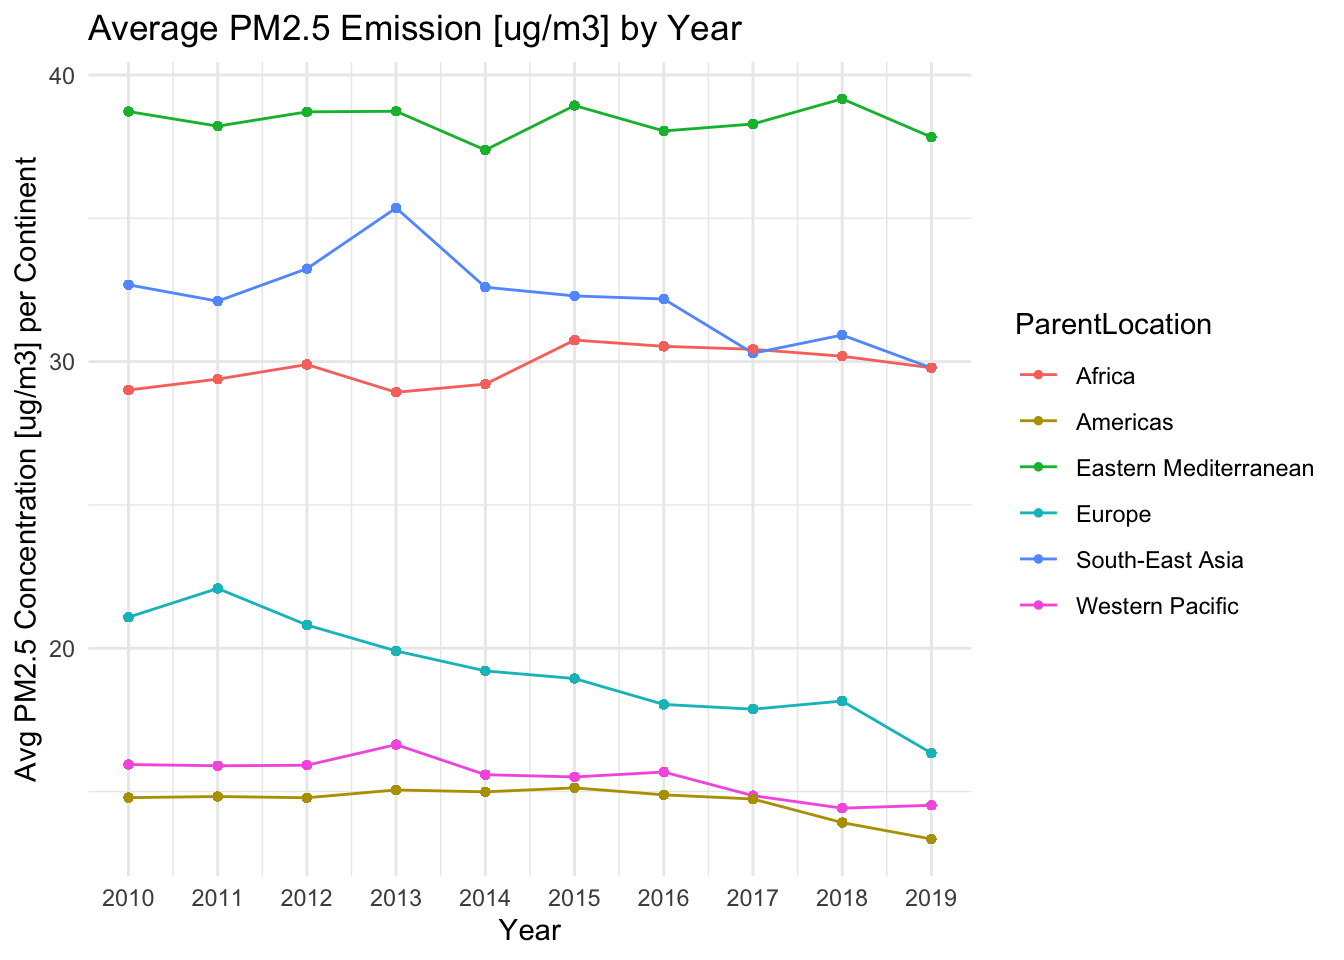
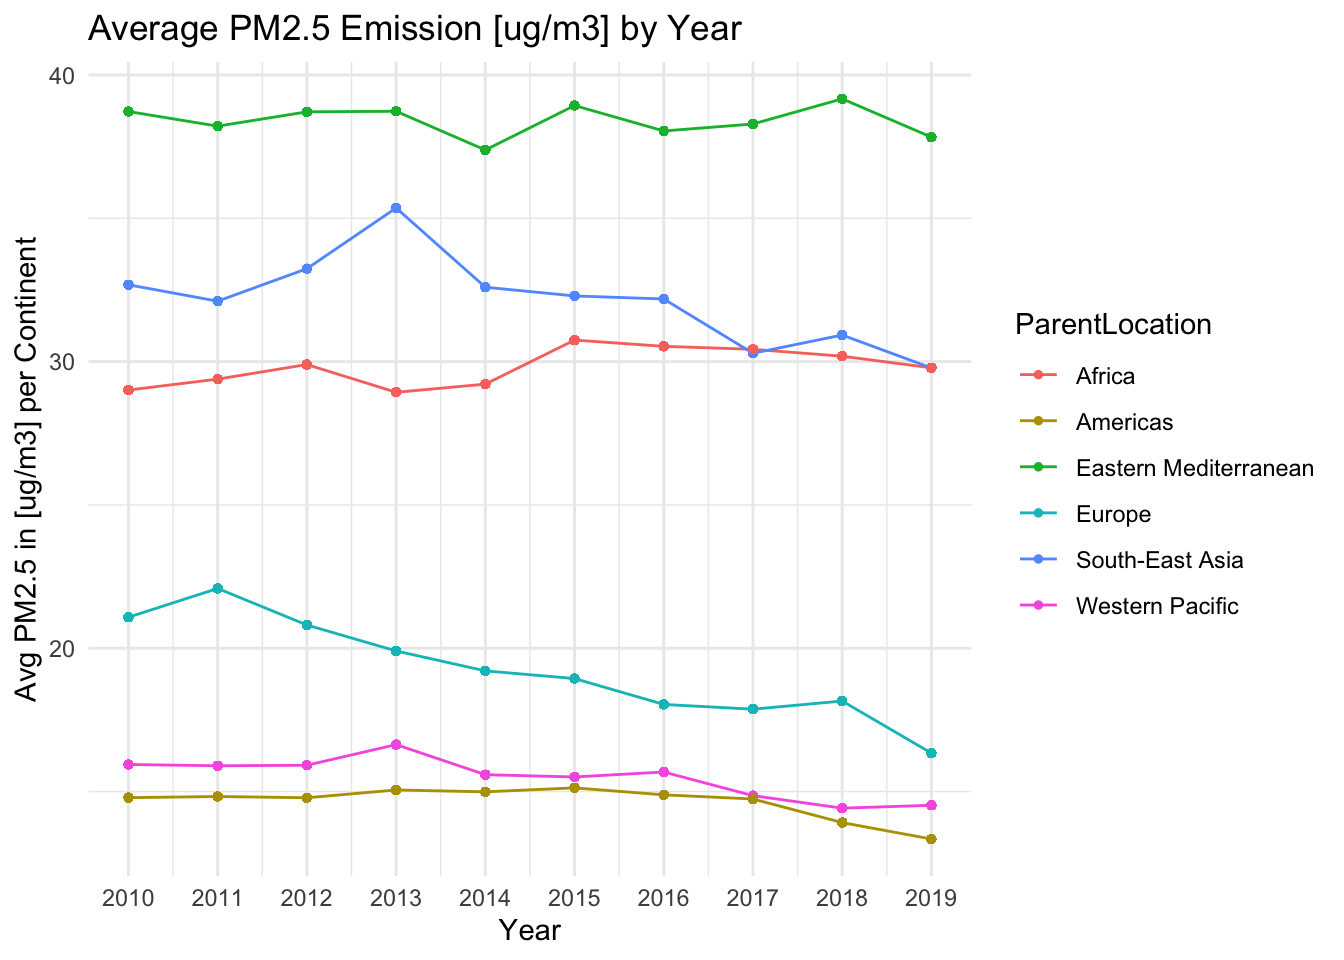
。

Changed region(s): [[0.0, 0.1562, 0.0312, 0.8125]]

diff --git a/docs/results.html b/docs/results.html
@@ -237,7 +237,7 @@ Attaching package: 'dplyr'</code></pre>
 <span id="cb6-8"><a href="#cb6-8" aria-hidden="true" tabindex="-1"></a>  <span class="fu">theme_minimal</span>() <span class="sc">+</span></span>
 <span id="cb6-9"><a href="#cb6-9" aria-hidden="true" tabindex="-1"></a>  <span class="fu">labs</span>(<span class="at">title =</span> <span class="st">"Average PM2.5 Emission [ug/m3] by Year"</span>,</span>
 <span id="cb6-10"><a href="#cb6-10" aria-hidden="true" tabindex="-1"></a>       <span class="at">x =</span> <span class="st">"Year"</span>,</span>
-<span id="cb6-11"><a href="#cb6-11" aria-hidden="true" tabindex="-1"></a>       <span class="at">y =</span> <span class="st">"Avg PM2.5 Worldwide [ug/m3]"</span>) <span class="sc">+</span></span>
+<span id="cb6-11"><a href="#cb6-11" aria-hidden="true" tabindex="-1"></a>       <span class="at">y =</span> <span class="st">"Avg PM2.5 [ug/m3] Worldwide"</span>) <span class="sc">+</span></span>
 <span id="cb6-12"><a href="#cb6-12" aria-hidden="true" tabindex="-1"></a>   <span class="fu">scale_x_continuous</span>(<span class="at">breaks =</span> <span class="fu">seq</span>(<span class="fu">min</span>(data<span class="sc">$</span>Period), <span class="fu">max</span>(data<span class="sc">$</span>Period), <span class="at">by =</span> <span class="dv">1</span>))</span></code><button title="Copy to Clipboard" class="code-copy-button"><i class="bi"></i></button></pre></div>
 </details>
 <div class="cell-output-display">
@@ -262,7 +262,7 @@ Attaching package: 'dplyr'</code></pre>
 <span id="cb7-9"><a href="#cb7-9" aria-hidden="true" tabindex="-1"></a>  <span class="fu">theme_minimal</span>() <span class="sc">+</span></span>
 <span id="cb7-10"><a href="#cb7-10" aria-hidden="true" tabindex="-1"></a>  <span class="fu">labs</span>(<span class="at">title =</span> <span class="st">"Average PM2.5 Emission [ug/m3] by Year"</span>,</span>
 <span id="cb7-11"><a href="#cb7-11" aria-hidden="true" tabindex="-1"></a>       <span class="at">x =</span> <span class="st">"Year"</span>,</span>
-<span id="cb7-12"><a href="#cb7-12" aria-hidden="true" tabindex="-1"></a>       <span class="at">y =</span> <span class="st">"Avg PM2.5 Concentration [ug/m3] per Continent"</span>) <span class="sc">+</span></span>
+<span id="cb7-12"><a href="#cb7-12" aria-hidden="true" tabindex="-1"></a>       <span class="at">y =</span> <span class="st">"Avg PM2.5 in [ug/m3] per Continent"</span>) <span class="sc">+</span></span>
 <span id="cb7-13"><a href="#cb7-13" aria-hidden="true" tabindex="-1"></a>   <span class="fu">scale_x_continuous</span>(<span class="at">breaks =</span> <span class="fu">seq</span>(<span class="fu">min</span>(data<span class="sc">$</span>Period), <span class="fu">max</span>(data<span class="sc">$</span>Period), <span class="at">by =</span> <span class="dv">1</span>))</span></code><button title="Copy to Clipboard" class="code-copy-button"><i class="bi"></i></button></pre></div>
 </details>
 <div class="cell-output-display">
@@ -292,9 +292,9 @@ Attaching package: 'dplyr'</code></pre>
 </div>
 <p>The boxplots further shows that Europe has the largest variation across years, which corresponds to our observation for previous plot, while Africa and Eastern Mediterranean has a stable PM2.5 since the length of boxplot is small.</p>
 <ol start="3" type="1">
-<li><p>Continent Correlation</p>
-<p>This explores the relationship between country and PM2.5 level.</p></li>
+<li>Continent Correlation</li>
 </ol>
+<p>This explores the relationship between country and PM2.5 level.</p>
 <div class="cell">
 <details>
 <summary>Code</summary>
@@ -314,7 +314,7 @@ Attaching package: 'dplyr'</code></pre>
 <span id="cb10-14"><a href="#cb10-14" aria-hidden="true" tabindex="-1"></a><span class="fu">ggplot</span>(top_countries, <span class="fu">aes</span>(<span class="at">x =</span> <span class="fu">reorder</span>(Location, LocE), <span class="at">y =</span> LocE)) <span class="sc">+</span></span>
 <span id="cb10-15"><a href="#cb10-15" aria-hidden="true" tabindex="-1"></a>  <span class="fu">geom_bar</span>(<span class="at">stat =</span> <span class="st">"identity"</span>, <span class="at">fill =</span> <span class="st">"#FFCCCC"</span>) <span class="sc">+</span></span>
 <span id="cb10-16"><a href="#cb10-16" aria-hidden="true" tabindex="-1"></a>  <span class="fu">coord_flip</span>() <span class="sc">+</span></span>
-<span id="cb10-17"><a href="#cb10-17" aria-hidden="true" tabindex="-1"></a>  <span class="fu">labs</span>(<span class="at">title =</span> <span class="st">"Countries with the Top 10 Highest Avg PM2.5"</span>,</span>
+<span id="cb10-17"><a href="#cb10-17" aria-hidden="true" tabindex="-1"></a>  <span class="fu">labs</span>(<span class="at">title =</span> <span class="st">"Countries with the Top 10 Highest Avg PM2.5 [ug/m3]"</span>,</span>
 <span id="cb10-18"><a href="#cb10-18" aria-hidden="true" tabindex="-1"></a>       <span class="at">x =</span> <span class="st">"Country"</span>,</span>
 <span id="cb10-19"><a href="#cb10-19" aria-hidden="true" tabindex="-1"></a>       <span class="at">y =</span> <span class="st">"Average PM2.5 [ug/m3]"</span>) <span class="sc">+</span></span>
 <span id="cb10-20"><a href="#cb10-20" aria-hidden="true" tabindex="-1"></a>  <span class="fu">theme_minimal</span>()</span></code><button title="Copy to Clipboard" class="code-copy-button"><i class="bi"></i></button></pre></div>
@@ -329,7 +329,7 @@ Attaching package: 'dplyr'</code></pre>
 <div class="sourceCode cell-code" id="cb11"><pre class="sourceCode r code-with-copy"><code class="sourceCode r"><span id="cb11-1"><a href="#cb11-1" aria-hidden="true" tabindex="-1"></a><span class="fu">ggplot</span>(bot_countries, <span class="fu">aes</span>(<span class="at">x =</span> <span class="fu">reorder</span>(Location, <span class="sc">-</span>LocE), <span class="at">y =</span> LocE)) <span class="sc">+</span></span>
 <span id="cb11-2"><a href="#cb11-2" aria-hidden="true" tabindex="-1"></a>  <span class="fu">geom_bar</span>(<span class="at">stat =</span> <span class="st">"identity"</span>, <span class="at">fill=</span><span class="st">'lightgreen'</span>) <span class="sc">+</span></span>
 <span id="cb11-3"><a href="#cb11-3" aria-hidden="true" tabindex="-1"></a>  <span class="fu">coord_flip</span>() <span class="sc">+</span></span>
-<span id="cb11-4"><a href="#cb11-4" aria-hidden="true" tabindex="-1"></a>  <span class="fu">labs</span>(<span class="at">title =</span> <span class="st">"Countries with the Top 10 Highest Avg PM2.5"</span>,</span>
+<span id="cb11-4"><a href="#cb11-4" aria-hidden="true" tabindex="-1"></a>  <span class="fu">labs</span>(<span class="at">title =</span> <span class="st">"Countries with the Top 10 Highest Avg PM2.5 [ug/m3]"</span>,</span>
 <span id="cb11-5"><a href="#cb11-5" aria-hidden="true" tabindex="-1"></a>       <span class="at">x =</span> <span class="st">"Country"</span>,</span>
 <span id="cb11-6"><a href="#cb11-6" aria-hidden="true" tabindex="-1"></a>       <span class="at">y =</span> <span class="st">"Average PM2.5 [ug/m3]"</span>) <span class="sc">+</span></span>
 <span id="cb11-7"><a href="#cb11-7" aria-hidden="true" tabindex="-1"></a>  <span class="fu">theme_minimal</span>()</span></code><button title="Copy to Clipboard" class="code-copy-button"><i class="bi"></i></button></pre></div>
@@ -338,6 +338,35 @@ Attaching package: 'dplyr'</code></pre>
 <p><img src="results_files/figure-html/unnamed-chunk-6-1.png" class="img-fluid" width="672"></p>
 </div>
 </div>
+<p>These plots shows that the our continent analysis makes sense since countries with the best and worst air quality corresponds with the continent distribution.</p>
+<p>Let’s further define a ‘Polluted Percentage’, which is the percentage of countries that have an average PM 2.5 over 2010 to 2019 in each continent. Let’s test whether the continent average PM 2.5 is biased by the number of countries.</p>
+<div class="cell">
+<details>
+<summary>Code</summary>
+<div class="sourceCode cell-code" id="cb12"><pre class="sourceCode r code-with-copy"><code class="sourceCode r"><span id="cb12-1"><a href="#cb12-1" aria-hidden="true" tabindex="-1"></a>c_data <span class="ot">&lt;-</span> data <span class="sc">%&gt;%</span></span>
+<span id="cb12-2"><a href="#cb12-2" aria-hidden="true" tabindex="-1"></a>  <span class="fu">group_by</span>(ParentLocation) <span class="sc">%&gt;%</span></span>
+<span id="cb12-3"><a href="#cb12-3" aria-hidden="true" tabindex="-1"></a>  <span class="fu">summarize</span>(</span>
+<span id="cb12-4"><a href="#cb12-4" aria-hidden="true" tabindex="-1"></a>    <span class="at">tc =</span> <span class="fu">n</span>(),</span>
+<span id="cb12-5"><a href="#cb12-5" aria-hidden="true" tabindex="-1"></a>    <span class="at">polluted =</span> <span class="fu">sum</span>(FactValueNumeric <span class="sc">&gt;</span> <span class="fl">50.0</span>),</span>
+<span id="cb12-6"><a href="#cb12-6" aria-hidden="true" tabindex="-1"></a>    <span class="at">pec =</span> (polluted <span class="sc">/</span> tc) <span class="sc">*</span> <span class="fl">100.0</span></span>
+<span id="cb12-7"><a href="#cb12-7" aria-hidden="true" tabindex="-1"></a>  )</span>
+<span id="cb12-8"><a href="#cb12-8" aria-hidden="true" tabindex="-1"></a></span>
+<span id="cb12-9"><a href="#cb12-9" aria-hidden="true" tabindex="-1"></a><span class="co"># Plotting</span></span>
+<span id="cb12-10"><a href="#cb12-10" aria-hidden="true" tabindex="-1"></a><span class="fu">ggplot</span>(c_data, <span class="fu">aes</span>(<span class="at">x =</span> ParentLocation, <span class="at">y =</span> pec, <span class="at">fill =</span> ParentLocation)) <span class="sc">+</span></span>
+<span id="cb12-11"><a href="#cb12-11" aria-hidden="true" tabindex="-1"></a>  <span class="fu">geom_bar</span>(<span class="at">stat =</span> <span class="st">"identity"</span>) <span class="sc">+</span></span>
+<span id="cb12-12"><a href="#cb12-12" aria-hidden="true" tabindex="-1"></a>  <span class="fu">coord_flip</span>() <span class="sc">+</span></span>
+<span id="cb12-13"><a href="#cb12-13" aria-hidden="true" tabindex="-1"></a>  <span class="fu">labs</span>(</span>
+<span id="cb12-14"><a href="#cb12-14" aria-hidden="true" tabindex="-1"></a>    <span class="at">x =</span> <span class="st">"Continent"</span>,</span>
+<span id="cb12-15"><a href="#cb12-15" aria-hidden="true" tabindex="-1"></a>    <span class="at">y =</span> <span class="st">"Serious Pollution Percentage"</span>,</span>
+<span id="cb12-16"><a href="#cb12-16" aria-hidden="true" tabindex="-1"></a>    <span class="at">title =</span> <span class="st">"Continent Level Pollution Percentage"</span></span>
+<span id="cb12-17"><a href="#cb12-17" aria-hidden="true" tabindex="-1"></a>  ) <span class="sc">+</span></span>
+<span id="cb12-18"><a href="#cb12-18" aria-hidden="true" tabindex="-1"></a>  <span class="fu">theme_minimal</span>()</span></code><button title="Copy to Clipboard" class="code-copy-button"><i class="bi"></i></button></pre></div>
+</details>
+<div class="cell-output-display">
+<p><img src="results_files/figure-html/unnamed-chunk-7-1.png" class="img-fluid" width="672"></p>
+</div>
+</div>
+<p>This corresponds to our previous analysis that Eastern Mediterranean has the highest PM 2.5 level. It also shows that Africa’s average air quality was lowered by a small portion of countries which have serious air pollution.</p>
 <ol start="4" type="1">
 <li>Location type</li>
 </ol>
@@ -345,23 +374,48 @@ Attaching package: 'dplyr'</code></pre>
 <div class="cell">
 <details>
 <summary>Code</summary>
-<div class="sourceCode cell-code" id="cb12"><pre class="sourceCode r code-with-copy"><code class="sourceCode r"><span id="cb12-1"><a href="#cb12-1" aria-hidden="true" tabindex="-1"></a>data <span class="ot">&lt;-</span> data <span class="sc">%&gt;%</span></span>
-<span id="cb12-2"><a href="#cb12-2" aria-hidden="true" tabindex="-1"></a>  <span class="fu">group_by</span>(Dim1) <span class="sc">%&gt;%</span></span>
-<span id="cb12-3"><a href="#cb12-3" aria-hidden="true" tabindex="-1"></a>  <span class="fu">mutate</span>(<span class="at">LotyE =</span> <span class="fu">mean</span>(FactValueNumeric)) <span class="sc">%&gt;%</span></span>
-<span id="cb12-4"><a href="#cb12-4" aria-hidden="true" tabindex="-1"></a>  <span class="fu">ungroup</span>()</span>
-<span id="cb12-5"><a href="#cb12-5" aria-hidden="true" tabindex="-1"></a></span>
-<span id="cb12-6"><a href="#cb12-6" aria-hidden="true" tabindex="-1"></a><span class="fu">ggplot</span>(data, <span class="fu">aes</span>(<span class="at">x =</span> <span class="fu">reorder</span>(Dim1, LotyE), <span class="at">y =</span> LotyE<span class="sc">/</span><span class="dv">945</span>)) <span class="sc">+</span></span>
-<span id="cb12-7"><a href="#cb12-7" aria-hidden="true" tabindex="-1"></a>  <span class="fu">geom_bar</span>(<span class="at">stat =</span> <span class="st">"identity"</span>) <span class="sc">+</span></span>
-<span id="cb12-8"><a href="#cb12-8" aria-hidden="true" tabindex="-1"></a>  <span class="fu">labs</span>(<span class="at">title =</span> <span class="st">"Avg PM2.5 level [ug/m3] for different location type"</span>,</span>
-<span id="cb12-9"><a href="#cb12-9" aria-hidden="true" tabindex="-1"></a>       <span class="at">x =</span> <span class="st">"Location Type"</span>,</span>
-<span id="cb12-10"><a href="#cb12-10" aria-hidden="true" tabindex="-1"></a>       <span class="at">y =</span> <span class="st">"Average PM2.5 [ug/m3]"</span>) <span class="sc">+</span></span>
-<span id="cb12-11"><a href="#cb12-11" aria-hidden="true" tabindex="-1"></a>  <span class="fu">theme_minimal</span>()</span></code><button title="Copy to Clipboard" class="code-copy-button"><i class="bi"></i></button></pre></div>
+<div class="sourceCode cell-code" id="cb13"><pre class="sourceCode r code-with-copy"><code class="sourceCode r"><span id="cb13-1"><a href="#cb13-1" aria-hidden="true" tabindex="-1"></a>data <span class="ot">&lt;-</span> data <span class="sc">%&gt;%</span></span>
+<span id="cb13-2"><a href="#cb13-2" aria-hidden="true" tabindex="-1"></a>  <span class="fu">group_by</span>(Dim1) <span class="sc">%&gt;%</span></span>
+<span id="cb13-3"><a href="#cb13-3" aria-hidden="true" tabindex="-1"></a>  <span class="fu">mutate</span>(<span class="at">LotyE =</span> <span class="fu">mean</span>(FactValueNumeric)) <span class="sc">%&gt;%</span></span>
+<span id="cb13-4"><a href="#cb13-4" aria-hidden="true" tabindex="-1"></a>  <span class="fu">ungroup</span>()</span>
+<span id="cb13-5"><a href="#cb13-5" aria-hidden="true" tabindex="-1"></a></span>
+<span id="cb13-6"><a href="#cb13-6" aria-hidden="true" tabindex="-1"></a>d_data <span class="ot">&lt;-</span> <span class="fu">unique</span>(data[<span class="fu">c</span>(<span class="st">"Dim1"</span>, <span class="st">"LotyE"</span>)])</span>
+<span id="cb13-7"><a href="#cb13-7" aria-hidden="true" tabindex="-1"></a></span>
+<span id="cb13-8"><a href="#cb13-8" aria-hidden="true" tabindex="-1"></a><span class="fu">ggplot</span>(d_data, <span class="fu">aes</span>(<span class="at">x =</span> <span class="fu">reorder</span>(Dim1, LotyE), <span class="at">y =</span> LotyE, <span class="at">fill=</span><span class="sc">-</span>LotyE)) <span class="sc">+</span></span>
+<span id="cb13-9"><a href="#cb13-9" aria-hidden="true" tabindex="-1"></a>  <span class="fu">geom_bar</span>(<span class="at">stat =</span> <span class="st">"identity"</span>) <span class="sc">+</span></span>
+<span id="cb13-10"><a href="#cb13-10" aria-hidden="true" tabindex="-1"></a>  <span class="fu">labs</span>(<span class="at">title =</span> <span class="st">"Avg PM2.5 level [ug/m3] for different location type"</span>,</span>
+<span id="cb13-11"><a href="#cb13-11" aria-hidden="true" tabindex="-1"></a>       <span class="at">x =</span> <span class="st">"Location Type"</span>,</span>
+<span id="cb13-12"><a href="#cb13-12" aria-hidden="true" tabindex="-1"></a>       <span class="at">y =</span> <span class="st">"Average PM2.5 [ug/m3]"</span>) <span class="sc">+</span></span>
+<span id="cb13-13"><a href="#cb13-13" aria-hidden="true" tabindex="-1"></a>  <span class="fu">theme_minimal</span>()</span></code><button title="Copy to Clipboard" class="code-copy-button"><i class="bi"></i></button></pre></div>
 </details>
 <div class="cell-output-display">
-<p><img src="results_files/figure-html/unnamed-chunk-7-1.png" class="img-fluid" width="672"></p>
+<p><img src="results_files/figure-html/unnamed-chunk-8-1.png" class="img-fluid" width="672"></p>
 </div>
 </div>
 <p>The result are pretty close but there is a clear evidence Rural and Towns, those places with a smaller population density tend to have a better air quality.</p>
+<p>Let’s further analyze how location type can be related to continents.</p>
+<div class="cell">
+<details>
+<summary>Code</summary>
+<div class="sourceCode cell-code" id="cb14"><pre class="sourceCode r code-with-copy"><code class="sourceCode r"><span id="cb14-1"><a href="#cb14-1" aria-hidden="true" tabindex="-1"></a>data <span class="ot">&lt;-</span> data <span class="sc">%&gt;%</span></span>
+<span id="cb14-2"><a href="#cb14-2" aria-hidden="true" tabindex="-1"></a>  <span class="fu">group_by</span>(ParentLocation, Dim1) <span class="sc">%&gt;%</span></span>
+<span id="cb14-3"><a href="#cb14-3" aria-hidden="true" tabindex="-1"></a>  <span class="fu">mutate</span>(<span class="at">CtentD =</span> <span class="fu">mean</span>(FactValueNumeric)) <span class="sc">%&gt;%</span></span>
+<span id="cb14-4"><a href="#cb14-4" aria-hidden="true" tabindex="-1"></a>  <span class="fu">ungroup</span>()</span>
+<span id="cb14-5"><a href="#cb14-5" aria-hidden="true" tabindex="-1"></a></span>
+<span id="cb14-6"><a href="#cb14-6" aria-hidden="true" tabindex="-1"></a>d_data <span class="ot">&lt;-</span> <span class="fu">unique</span>(data[<span class="fu">c</span>(<span class="st">"ParentLocation"</span>, <span class="st">"Dim1"</span>, <span class="st">"CtentD"</span>)])</span>
+<span id="cb14-7"><a href="#cb14-7" aria-hidden="true" tabindex="-1"></a></span>
+<span id="cb14-8"><a href="#cb14-8" aria-hidden="true" tabindex="-1"></a><span class="fu">ggplot</span>(d_data, <span class="fu">aes</span>(<span class="at">x =</span> <span class="fu">reorder</span>(Dim1, CtentD), <span class="at">y =</span> CtentD, <span class="at">fill =</span> <span class="sc">-</span>CtentD)) <span class="sc">+</span> </span>
+<span id="cb14-9"><a href="#cb14-9" aria-hidden="true" tabindex="-1"></a>  <span class="fu">geom_bar</span>(<span class="at">stat =</span> <span class="st">"identity"</span>) <span class="sc">+</span> </span>
+<span id="cb14-10"><a href="#cb14-10" aria-hidden="true" tabindex="-1"></a>  <span class="fu">facet_wrap</span>(<span class="sc">~</span> ParentLocation) <span class="sc">+</span></span>
+<span id="cb14-11"><a href="#cb14-11" aria-hidden="true" tabindex="-1"></a>  <span class="fu">coord_flip</span>() <span class="sc">+</span></span>
+<span id="cb14-12"><a href="#cb14-12" aria-hidden="true" tabindex="-1"></a>  <span class="fu">labs</span>(<span class="at">x =</span> <span class="st">"Location Type"</span>, <span class="at">y =</span> <span class="st">"PM2.5 Level [ug/m3]"</span>, <span class="at">title =</span> <span class="st">"Avg PM2.5 level [ug/m3] by Continent and Resident Type"</span>) <span class="sc">+</span></span>
+<span id="cb14-13"><a href="#cb14-13" aria-hidden="true" tabindex="-1"></a>  <span class="fu">theme_minimal</span>()</span></code><button title="Copy to Clipboard" class="code-copy-button"><i class="bi"></i></button></pre></div>
+</details>
+<div class="cell-output-display">
+<p><img src="results_files/figure-html/unnamed-chunk-9-1.png" class="img-fluid" width="672"></p>
+</div>
+</div>
+<p>The plot reveals that the pattern among different location types for all continents are similar.</p>
 
 
 
